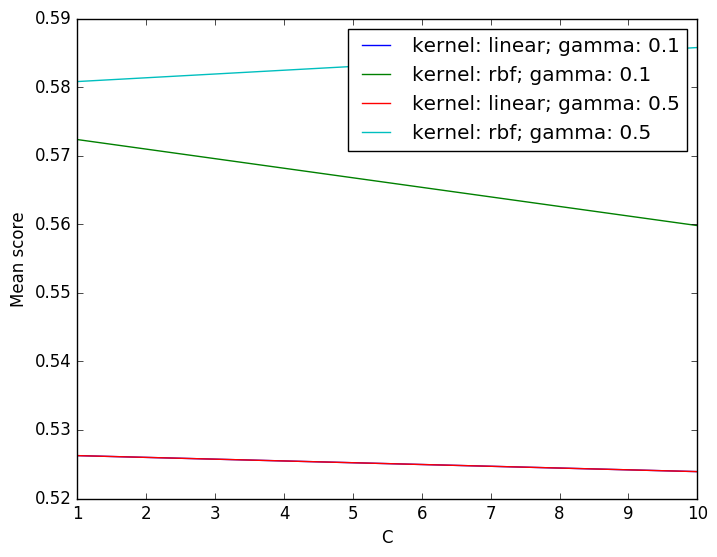
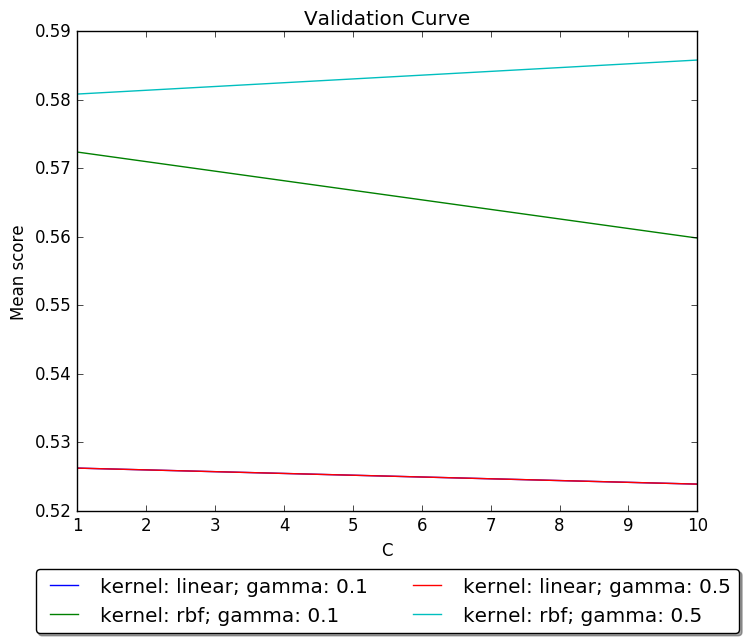
Clean up files, clean up validation curves, productionize learning curve graphs.

Changed region(s): [[0.0, 0.0, 1.0, 1.0]]

diff --git a/Wine/wine_neural.py b/Wine/wine_neural.py
@@ -3,16 +3,14 @@ import matplotlib.pyplot as plt
 from sklearn.neural_network import MLPClassifier
 from sklearn.preprocessing import StandardScaler
 from sklearn.model_selection import GridSearchCV
-from scipy import stats
 from Print_Timer_Results import *
 from plot_learning_curve3 import drawLearningCurve
+import time
 import warnings
 warnings.filterwarnings("ignore", category=DeprecationWarning)
-import time
 
 # Start timer
 start_time = time.time()
-
 
 # Load the data
 from wine_data import X_train, X_test, y_train, y_test
@@ -25,21 +23,10 @@ X_test = scaler.transform(X_test)
 
 # Define the classifier
 nn = MLPClassifier(solver='lbfgs', random_state=1)
-
 grid_params = {'alpha': [0.05, 0.01, 0.005, 0.001]
               ,'hidden_layer_sizes': [3, 4, 7, 8, 12, 15, 20, 30, 50]
               }
-
-# grid_params = {'alpha': [0.05, 0.01, 0.005, 0.001]
-#               ,'hidden_layer_sizes': [4, 8, 12]
-#               }
-
-rand_params = {'alpha': stats.uniform(0.001, 0.05)
-              ,'hidden_layer_sizes': stats.randint(3, 50)
-              }
-
 clf = GridSearchCV(nn, param_grid=grid_params, cv=3)
-#clf = RandomizedSearchCV(nn, param_distributions=rand_params, n_iter=100, cv=5)
 
 # Run the classifier
 clf.fit(X_train, y_train)
@@ -55,7 +42,7 @@ test_acc = np.sum(y_test == y_test_pred, axis=0) / X_test.shape[0]
 print('Test accuracy: %.2f%%' % (test_acc * 100))
 
 # Draw learning curve
-drawLearningCurve(clf, X_train, X_test, y_train, y_test, min_size=1000, numpoints=5)
+drawLearningCurve(clf, X_train, X_test, y_train, y_test, min_size=1000, numpoints=50)
 plt.savefig('Neural Network Learning Curve.png', bbox_inches='tight')
 
 # Print diagnostics
@@ -82,7 +69,9 @@ for ind, i in enumerate(grid_params['hidden_layer_sizes']):
     # print('alpha:' + str(grid_params['alpha']))
     # print('Score:' + str(scores[:,ind]))
     scoreplot.plot(grid_params['alpha'], scores[:,ind], label='hidden_layer_sizes: ' + str(i))
-scoreplot.legend()
+scoreplot.legend(loc='center left', bbox_to_anchor=(1, 0.5))
 scoreplot.set_xlabel('alpha')
+scoreplot.set_xlim([0,0.05])
 scoreplot.set_ylabel('Mean score')
+scoreplot.set_title('Validation Curve')
 plt.savefig('Neural Network Validation Curve.png', bbox_inches='tight')

diff --git a/Wine/wine_svm.py b/Wine/wine_svm.py
@@ -1,4 +1,3 @@
-from sklearn.model_selection import learning_curve
 from sklearn.svm import SVC
 from sklearn.preprocessing import StandardScaler
 from sklearn.metrics import accuracy_score
@@ -43,7 +42,7 @@ test_accuracy = accuracy_score(y_test, y_pred_test)
 print('SVM Kernel train/test accuracy: %.3f/%.3f' % (train_accuracy, test_accuracy))
 
 # Draw learning curve
-drawLearningCurve(clf, X_train, X_test, y_train, y_test, min_size=1000, numpoints=5)
+drawLearningCurve(clf, X_train, X_test, y_train, y_test, min_size=1000, numpoints=50)
 plt.savefig('SVM Learning Curve.png', bbox_inches='tight')
 
 # Print diagnostics
@@ -64,7 +63,7 @@ print(scores)
 
 Stop_Timer(start_time)
 
-# # Show learning curve
+# Show learning curve
 test = [x[0] for x in clf.grid_scores_]
 total = len(parameters['gamma'])*len(parameters['kernel'])
 gammas = [x['gamma'] for x in test[0:total]]
@@ -76,7 +75,8 @@ for ind, i in enumerate(iterator):
     # print('C:' + str(parameters['C']))
     # print('Score:' + str(scores[ind]))
     scoreplot.plot(parameters['C'], scores[ind], label='kernel: ' + str(i[1]) + '; gamma: ' + str(i[0]))
-scoreplot.legend()
+scoreplot.legend(loc='upper center', bbox_to_anchor=(0.5, -0.1), fancybox=True, shadow=True, ncol=2)
 scoreplot.set_xlabel('C')
 scoreplot.set_ylabel('Mean score')
+scoreplot.set_title('Validation Curve')
 plt.savefig('SVM Validation Curve.png', bbox_inches='tight')

diff --git a/Wine/wine_decision.py b/Wine/wine_decision.py
@@ -5,8 +5,8 @@ from Print_Timer_Results import *
 from plot_learning_curve3 import drawLearningCurve
 import matplotlib.pyplot as plt
 import warnings
-warnings.filterwarnings("ignore", category=DeprecationWarning)
 import time
+warnings.filterwarnings("ignore", category=DeprecationWarning)
 
 # Start timer
 start_time = time.time()
@@ -35,7 +35,7 @@ from sklearn.tree import export_graphviz
 export_graphviz(clf.best_estimator_, out_file = 'Wine2pruned.dot', feature_names=['fixed acidity', 'volatile acidity', 'citric acid', 'residual sugar', 'chlorides', 'free sulfur dioxide', 'total sulfur dioxide', 'density', 'pH', 'sulphates', 'alcohol', 'quality'])
 
 # Draw learning curve
-drawLearningCurve(clf, X_train, X_test, y_train, y_test, min_size=2000, numpoints=5)
+drawLearningCurve(clf, X_train, X_test, y_train, y_test, min_size=2000, numpoints=200)
 plt.savefig('Decision Tree Learning Curve.png', bbox_inches='tight')
 
 # Print diagnostics
@@ -53,4 +53,5 @@ scoreplot = plt.subplot()
 scoreplot.plot(parameters['alpha'], scores)
 scoreplot.set_xlabel('alpha')
 scoreplot.set_ylabel('Mean score')
+scoreplot.set_title('Validation Curve')
 plt.savefig('Decision Tree Validation Curve.png', bbox_inches='tight')

diff --git a/Wine/wine_knn.py b/Wine/wine_knn.py
@@ -6,8 +6,8 @@ from Print_Timer_Results import *
 import matplotlib.pyplot as plt
 from plot_learning_curve3 import drawLearningCurve
 import warnings
-warnings.filterwarnings("ignore", category=DeprecationWarning)
 import time
+warnings.filterwarnings("ignore", category=DeprecationWarning)
 
 # Start timer
 start_time = time.time()
@@ -38,7 +38,7 @@ test_accuracy = accuracy_score(y_test, y_pred_test)
 print('KNN: train/test accuracy: %.3f/%.3f' % (train_accuracy, test_accuracy))
 
 # Draw learning curve
-drawLearningCurve(clf, X_train, X_test, y_train, y_test, min_size=1000, numpoints=5)
+drawLearningCurve(clf, X_train, X_test, y_train, y_test, min_size=1000, numpoints=50)
 plt.savefig('KNN Learning Curve.png', bbox_inches='tight')
 
 # Print diagnostics
@@ -56,4 +56,5 @@ scoreplot = plt.subplot()
 scoreplot.plot(parameters['n_neighbors'], scores)
 scoreplot.set_xlabel('neighbors')
 scoreplot.set_ylabel('Mean score')
+scoreplot.set_title('Validation Curve')
 plt.savefig('KNN Validation Curve.png', bbox_inches='tight')

diff --git a/Wine/wine_adaboost.py b/Wine/wine_adaboost.py
@@ -38,7 +38,7 @@ ada_test = accuracy_score(y_test, y_test_pred)
 print('Ada boost train/test accuracies %.3f/%.3f' % (ada_train, ada_test))
 
 # Draw learning curve
-drawLearningCurve(clf, X_train, X_test, y_train, y_test, min_size=2000, numpoints=5)
+drawLearningCurve(clf, X_train, X_test, y_train, y_test, min_size=2000, numpoints=10)
 plt.savefig('Boosting Learning Curve.png', bbox_inches='tight')
 
 # Print diagnostics
@@ -63,9 +63,10 @@ for ind, i in enumerate(parameters['learning_rate']):
     # print('n_estimators:' + str(parameters['n_estimators']))
     # print('Score:' + str(scores[ind]))
     scoreplot.plot(parameters['n_estimators'], scores[ind], label='learning_rate: ' + str(i))
-scoreplot.legend()
+scoreplot.legend(loc='center left', bbox_to_anchor=(1, 0.5))
 scoreplot.set_xlabel('n_estimators')
 scoreplot.set_ylabel('Mean score')
+scoreplot.set_title('Validation Curve')
 plt.savefig('Boosting Validation Curve.png', bbox_inches='tight')
 
 # from sklearn.tree import export_graphviz

diff --git a/Wine/wine_classifiers.py b/Wine/wine_classifiers.py
@@ -2,4 +2,4 @@ import wine_decision
 import wine_svm
 import wine_knn
 import wine_neural
-import wine_adaboost
+#import wine_adaboost
